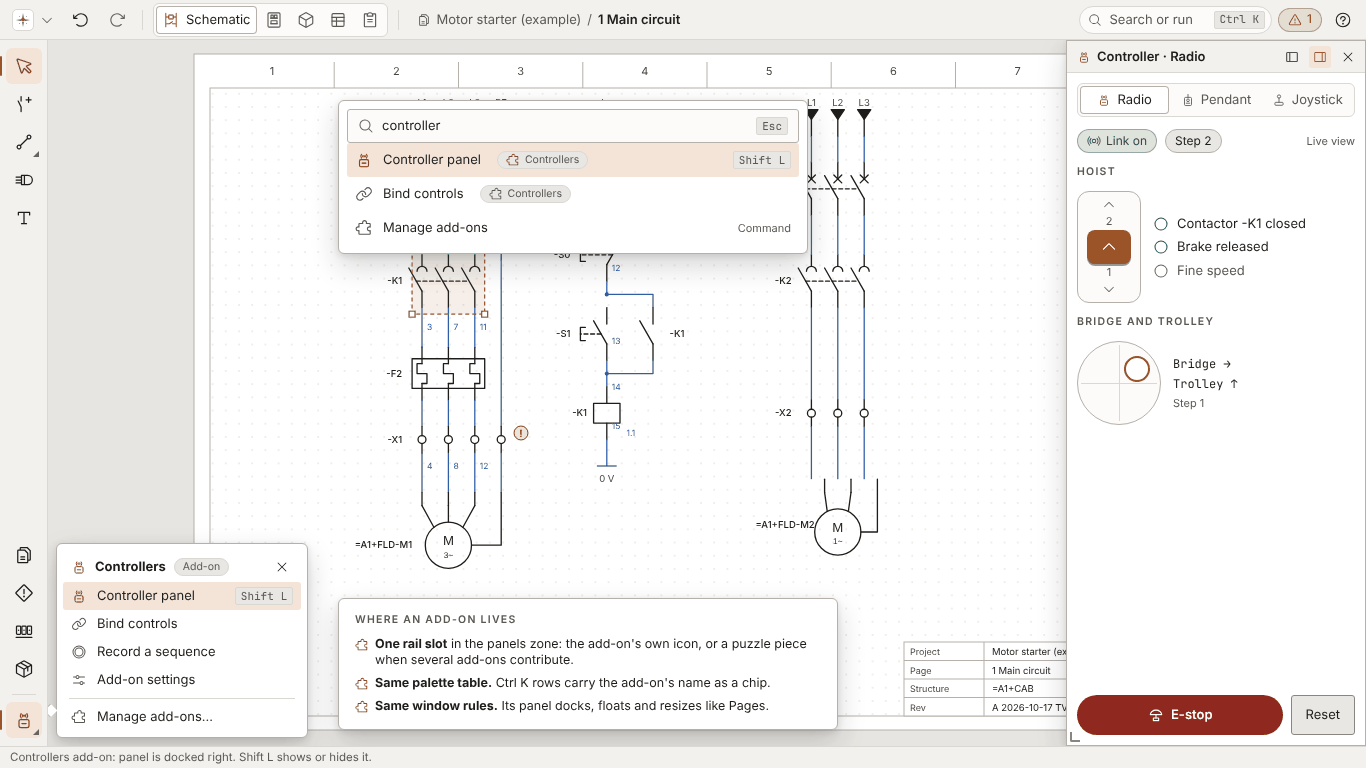
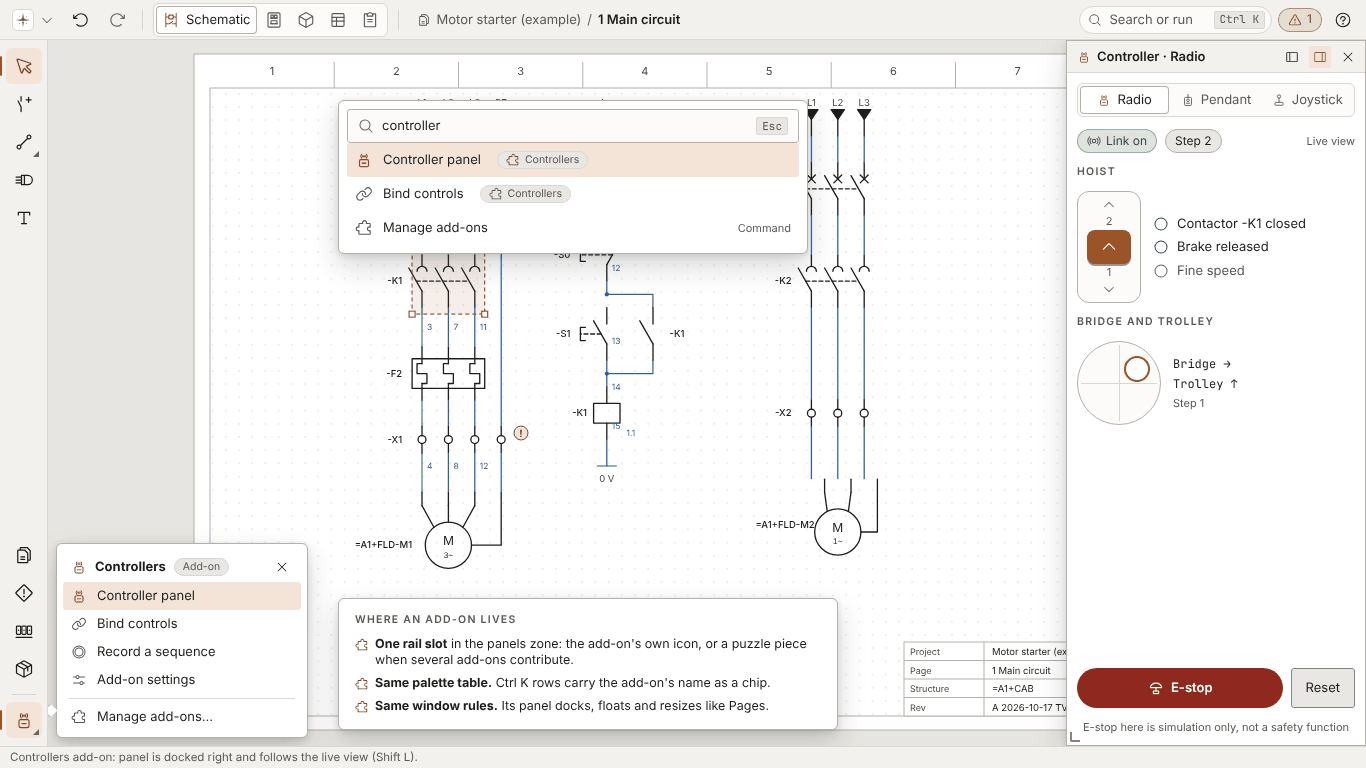
Design: fix Cabinet rail count and review nits in the add-ons addendum
Cut list moves to the Cabinet assists zone so the panels zone keeps a free
place for the add-on slot; the Controllers panel has no key of its own (Shift+L
is the live view); the virtual E-stop is marked simulation only; the sandbox
and signed claims are marked as design target; PROGRESS stamp corrected.

Claude-Session: https://claude.ai/code/session_015gECXU7iMRGbGb7PGYBbPU

diff --git a/docs/design/visual-redesign/mockups/Add-ons-in-app.dc.html b/docs/design/visual-redesign/mockups/Add-ons-in-app.dc.html
@@ -57,7 +57,7 @@ body{margin:0}
       <!-- rail flyout of the add-on -->
       <div class="float" style="left:8px;bottom:8px;width:252px;padding:6px;z-index:6">
         <div class="row gap8" style="padding:6px 8px 4px"><i class="i ki-controllers-radio" style="color:var(--ac2)"></i><b>Controllers</b><span class="chip" style="height:18px;font-size:10.5px">Add-on</span><span class="grow"></span><button class="btn" style="height:22px;min-width:22px;padding:0 3px"><i class="i i-x i14"></i></button></div>
-        <div class="mrow on"><i class="i ki-controllers-radio"></i>Controller panel<span class="kbd" style="margin-left:auto">Shift L</span></div>
+        <div class="mrow on"><i class="i ki-controllers-radio"></i>Controller panel</div>
         <div class="mrow"><i class="i i-link"></i>Bind controls</div>
         <div class="mrow"><i class="i i-record"></i>Record a sequence</div>
         <div class="mrow"><i class="i i-sliders-horizontal"></i>Add-on settings</div>
@@ -97,7 +97,8 @@ body{margin:0}
           </div>
 
           <div class="grow"></div>
-          <div class="row gap8"><span style="flex:1;height:40px;border-radius:20px;background:color-mix(in srgb,var(--err) 85%,#000);color:#fff;display:flex;align-items:center;justify-content:center;gap:6px;font-weight:600"><i class="i ki-estop i18"></i>E-stop</span><button class="sec" style="height:40px">Reset</button></div>
+          <div class="row gap8"><span title="Simulation only, not a safety function" style="flex:1;height:40px;border-radius:20px;background:color-mix(in srgb,var(--err) 85%,#000);color:#fff;display:flex;align-items:center;justify-content:center;gap:6px;font-weight:600"><i class="i ki-estop i18"></i>E-stop</span><button class="sec" style="height:40px">Reset</button></div>
+          <span class="cap" style="text-align:center">E-stop here is simulation only, not a safety function</span>
         </div>
         <div class="grip" style="left:0;bottom:0;transform:scaleX(-1)"></div>
       </div>
@@ -105,7 +106,7 @@ body{margin:0}
       <!-- Ctrl K: add-on commands are ordinary rows with the add-on's name as a chip -->
       <div class="float" style="left:290px;top:60px;width:470px;padding:8px;z-index:5">
         <div class="field" style="height:34px"><i class="i i-magnifying-glass i16" style="color:var(--tx3)"></i><span>controller</span><span class="grow"></span><span class="kbd">Esc</span></div>
-        <div class="mrow on" style="height:34px"><i class="i ki-controllers-radio i18"></i>Controller panel<span class="chip" style="height:18px;font-size:10.5px;margin-left:6px"><i class="i i-puzzle-piece i14"></i>Controllers</span><span class="kbd" style="margin-left:auto">Shift L</span></div>
+        <div class="mrow on" style="height:34px"><i class="i ki-controllers-radio i18"></i>Controller panel<span class="chip" style="height:18px;font-size:10.5px;margin-left:6px"><i class="i i-puzzle-piece i14"></i>Controllers</span></div>
         <div class="mrow" style="height:34px"><i class="i i-link i18"></i>Bind controls<span class="chip" style="height:18px;font-size:10.5px;margin-left:6px"><i class="i i-puzzle-piece i14"></i>Controllers</span></div>
         <div class="mrow" style="height:34px"><i class="i i-puzzle-piece i18"></i>Manage add-ons<span class="cap" style="margin-left:auto">Command</span></div>
       </div>
@@ -121,7 +122,7 @@ body{margin:0}
       </div>
     </div>
   </div>
-  <div class="status"><span>Controllers add-on: panel is docked right. Shift L shows or hides it.</span></div>
+  <div class="status"><span>Controllers add-on: panel is docked right and follows the live view (Shift L).</span></div>
 </div>
 </x-dc>
 <script type="text/x-dc" data-dc-script data-props='{"theme":{"editor":"enum","options":["dark","light"],"default":"dark","section":"Look"}}'>

diff --git a/docs/design/visual-redesign/mockups/Rails.dc.html b/docs/design/visual-redesign/mockups/Rails.dc.html
@@ -33,9 +33,8 @@ body{margin:0}
 
     <div class="rl"><div class="h"><i class="i ki-cabinet i18" style="color:var(--ac)"></i>Cabinet</div>
       <div class="g"><div class="mrow on"><i class="i i-cursor"></i>Select</div><div class="mrow"><i class="i ki-place"></i>Place devices<span class="fy"></span></div><div class="mrow"><i class="i ki-din-rail"></i>Rails<span class="fy"></span></div><div class="mrow"><i class="i ki-duct"></i>Ducts</div><div class="mrow"><i class="i ki-plate"></i>Plate setup</div></div>
-      <div class="g"><div class="mrow"><i class="i ki-enclosure"></i>Size enclosure</div><div class="mrow"><i class="i ki-net"></i>Route wires</div><div class="mrow"><i class="i i-seal-check"></i>Placement rules</div><div class="mrow"><i class="i ki-emc"></i>EMC on the plate</div></div>
-      <div class="g"><div class="mrow"><i class="i i-thermometer-hot"></i>Heat<span class="fy"></span></div><div class="mrow"><i class="i i-fan"></i>Vents and fans</div><div class="mrow"><i class="i i-scissors"></i>Cut list</div></div>
-      <div class="g"><div class="mrow"><i class="i i-files"></i>Pages</div><div class="mrow"><i class="i i-table"></i>Cabinet table</div><div class="mrow"><i class="i i-info"></i>Inspector</div></div>
+      <div class="g"><div class="mrow"><i class="i ki-enclosure"></i>Size enclosure</div><div class="mrow"><i class="i ki-net"></i>Route wires</div><div class="mrow"><i class="i i-seal-check"></i>Placement rules</div><div class="mrow"><i class="i ki-emc"></i>EMC on the plate</div><div class="mrow"><i class="i i-scissors"></i>Cut list</div></div>
+      <div class="g"><div class="mrow"><i class="i i-thermometer-hot"></i>Heat<span class="fy"></span></div><div class="mrow"><i class="i i-fan"></i>Vents and fans</div><div class="mrow"><i class="i i-files"></i>Pages</div><div class="mrow"><i class="i i-table"></i>Cabinet table</div><div class="mrow"><i class="i i-info"></i>Inspector</div></div>
     </div>
 
     <div class="rl"><div class="h"><i class="i i-cube i18" style="color:var(--ac)"></i>3D</div>

diff --git a/docs/design/visual-redesign-addons.md b/docs/design/visual-redesign-addons.md
@@ -33,11 +33,11 @@ Boards are HTML pictures of the target (sources in `visual-redesign/mockups/`). 
 
 The proposal of C0b appends add-on items to the assists or panels zone, at most 2 per add-on. With the base using 5 of the 6 places in most zones, that overflows at the second add-on. **Decision: one slot per workspace.**
 
-- The panels zone (the last one) has room for one add-on button in every workspace (the base uses at most 5 of 6). When exactly one add-on contributes to the open workspace, the button shows **that add-on's icon**; with two or more it shows a puzzle piece. The button has the flyout notch.
+- The panels zone (the last one) has room for one add-on button in every workspace (the base uses at most 5 of 6; Cabinet keeps to 5 because Cut list sits in its assists zone). When exactly one add-on contributes to the open workspace, the button shows **that add-on's icon**; with two or more it shows a puzzle piece. The button has the flyout notch.
 - The flyout lists each contributing add-on as a section (icon, name, "Add-on" chip) with its rail rows, then a footer row "Manage add-ons...". Up to 6 rows per add-on; the flyout scrolls beyond that.
 - Rail data stays registry-driven: the add-on's `home: rail` commands become rows of its flyout. The rail tables accept dynamic rows (section 6), so no add-on code touches the rail layout.
 - A badge on the add-on button is a plain count the host draws; status colour only for a severity the manifest declares, and always with the tooltip text.
-- The live view has no rail place today. Lane V3a adds a **Live** entry (the drawn `live` icon, `Shift+L`) as the sixth place of the Schematic assists zone, so the live-view toggle exists independently of any add-on.
+- The live view has no rail place today. Lane V3a adds a **Live** entry (the drawn `live` icon, `Shift+L`, the live-view key) as the sixth place of the Schematic assists zone, so the live-view toggle exists independently of any add-on. The Controllers panel is a card inside the live view and has **no key of its own**; the examples on the board show none.
 
 ## 4. Icons and the command presentation table
 
@@ -106,6 +106,8 @@ A centre window (960 x 640, resizable). Left: the installed add-ons, each with i
 | Failed (trap, timeout, budget) | Failed, with the reason in the details | warning-octagon, error |
 
 Installing an unsigned file opens a 480 dialog: publisher, requested permissions, hash, and a tick "I trust this file"; the primary action stays off until the tick is set. A project opened without an add-on it uses keeps the add-on's data untouched and shows the "not installed" empty state of section 2 in the place of the panel.
+
+The sandbox statement above, the "Signed by KoperVonk" state and the permission rows describe the design target of lane C0b; the pill and the file hashes on the board are example data. Nothing is signed or sandboxed until C0b builds and tests it.
 
 ## 8. Honest limits and open points
 

diff --git a/docs/design/visual-redesign.md b/docs/design/visual-redesign.md
@@ -101,7 +101,7 @@ The rail replaces the bottom dock and the text toolbars. It has three zones sepa
 | Workspace | Tools | Assists | Panels |
 | --- | --- | --- | --- |
 | Schematic | Select, Place symbol (Q), Connect (flyout: Corners, Lines, Autowire), Cable, Text | Autopilot, Accept proposals (badge: count), Tidy routes, Link reference, Macros | Pages, Issues (badge), Terminals, Cables, Devices |
-| Cabinet | Select, Place devices (flyout), Rails (flyout), Ducts, Plate setup | Size enclosure, Route wires, Placement rules, EMC on the plate | Heat (flyout), Vents and fans, Cut list, then Pages, Cabinet table, Inspector |
+| Cabinet | Select, Place devices (flyout), Rails (flyout), Ducts, Plate setup | Size enclosure, Route wires, Placement rules, EMC on the plate, Cut list | Heat (flyout), Vents and fans, Pages, Cabinet table, Inspector |
 | 3D | Select, Move, Place a device, Align and spread (flyout) | Measure, Section plane, Hide and isolate (flyout), Saved views | Layers (flyout), Heat, Wire runs, EMC view, Build order |
 | Reports | Add as drawing page, Report designer, Labels and ferrules | Bench output, Build mode | Export (flyout), Print |
 | Commissioning | Check, Punch item, Photo, Note | Walk the list, Mark done (tooltip: "a working mark, not a compliance record") | Report, Pages |

diff --git a/handoff/visual-design/PROGRESS.md b/handoff/visual-design/PROGRESS.md
@@ -1,3 +1,4 @@
 2026-10-28 11:31 UTC Audit, 12 boards, 40 icons, design doc and handoff written; PR opened from claude/project-thread-1ytuxa.
 2026-10-28 12:05 UTC #1566 merged (a2293c4). Follow-up doc PR: R3 nits (Draw target 17, total 152; Mark done; 3D Move off; bar 42 to 40 shorter, 92 percent unmeasured; keyboard, High contrast, Reduce motion in acceptance) and the stamp fix.
-2026-10-28 13:10 UTC Add-on integration requested by the owner: addendum docs/design/visual-redesign-addons.md, two boards (manager, add-ons in the app), four example add-on icons; decisions against C0b proposal: puzzle-piece glyph (no drawn icon), one rail slot per workspace, shape-data icons optional in API v1.
+2026-10-28 12:57 UTC Add-on integration requested by the owner: addendum docs/design/visual-redesign-addons.md, two boards (manager, add-ons in the app), four example add-on icons; decisions against C0b proposal: puzzle-piece glyph (no drawn icon), one rail slot per workspace, shape-data icons optional in API v1.
+2026-10-28 13:00 UTC Add-ons PR #1575 reviewer fixes: Cabinet Cut list moved to assists (panels zone 5), Controllers panel has no key of its own, E-stop simulation-only note, sandbox and signed pill marked as design target, stamp corrected.
